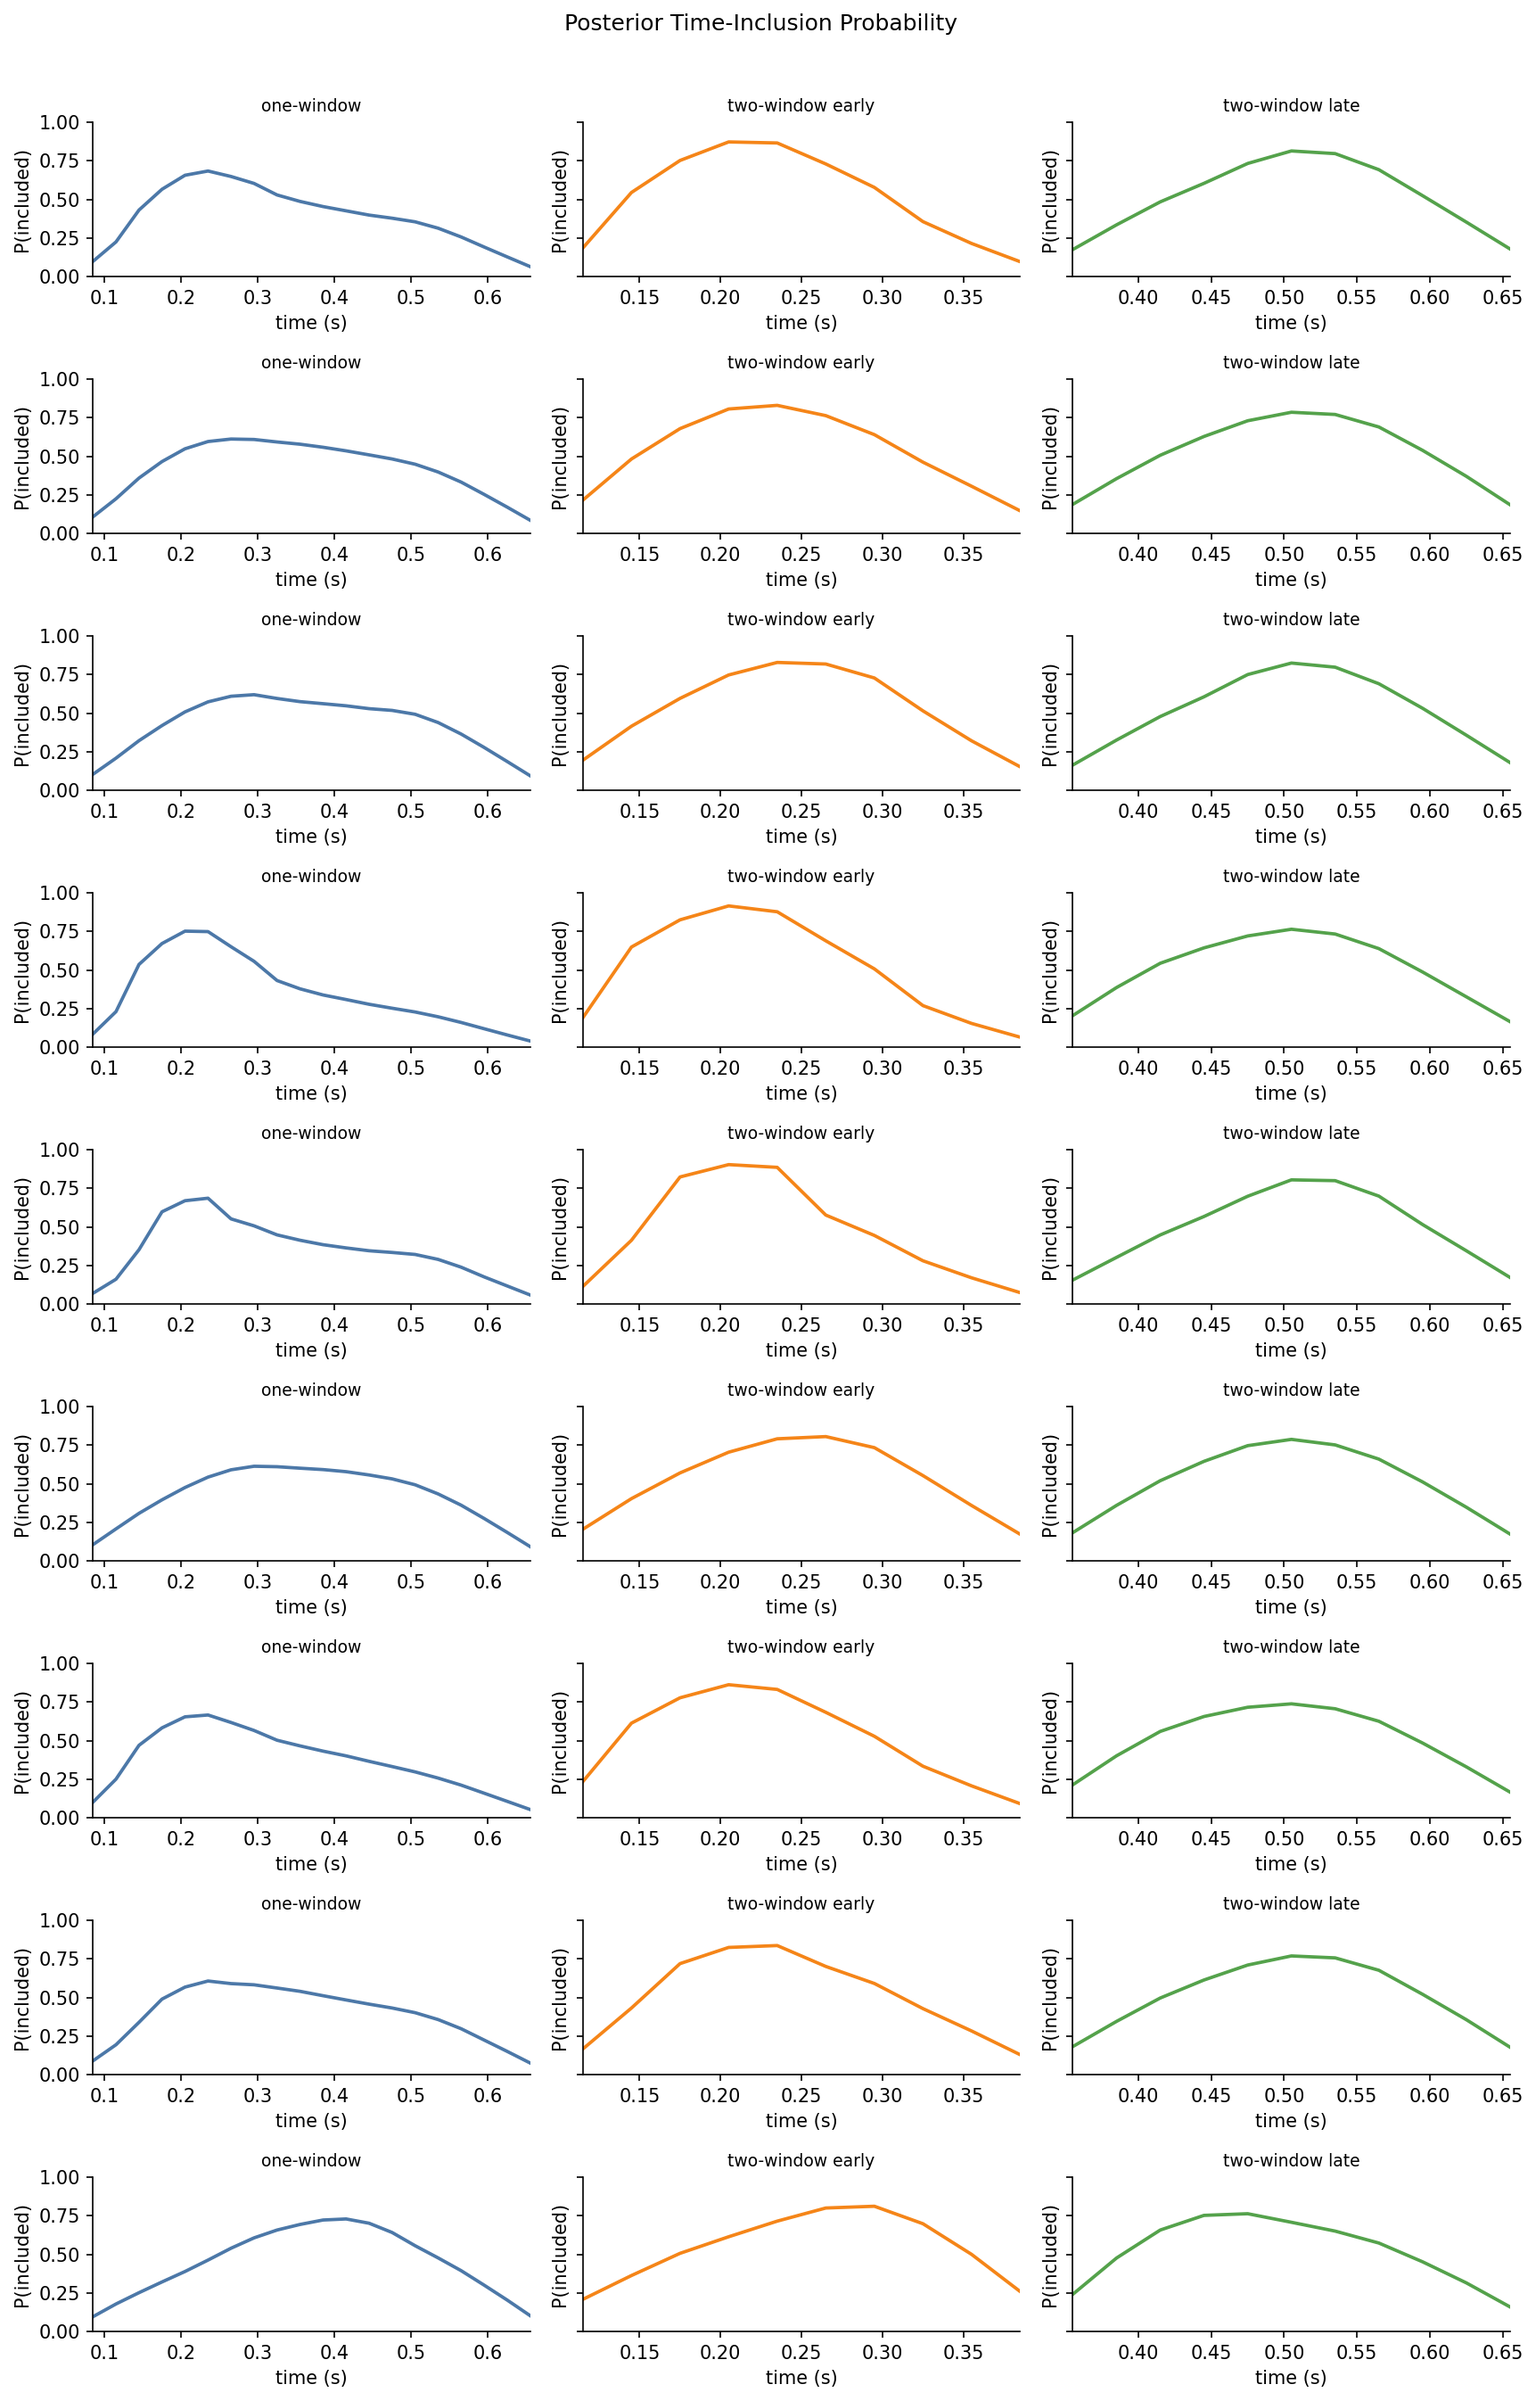
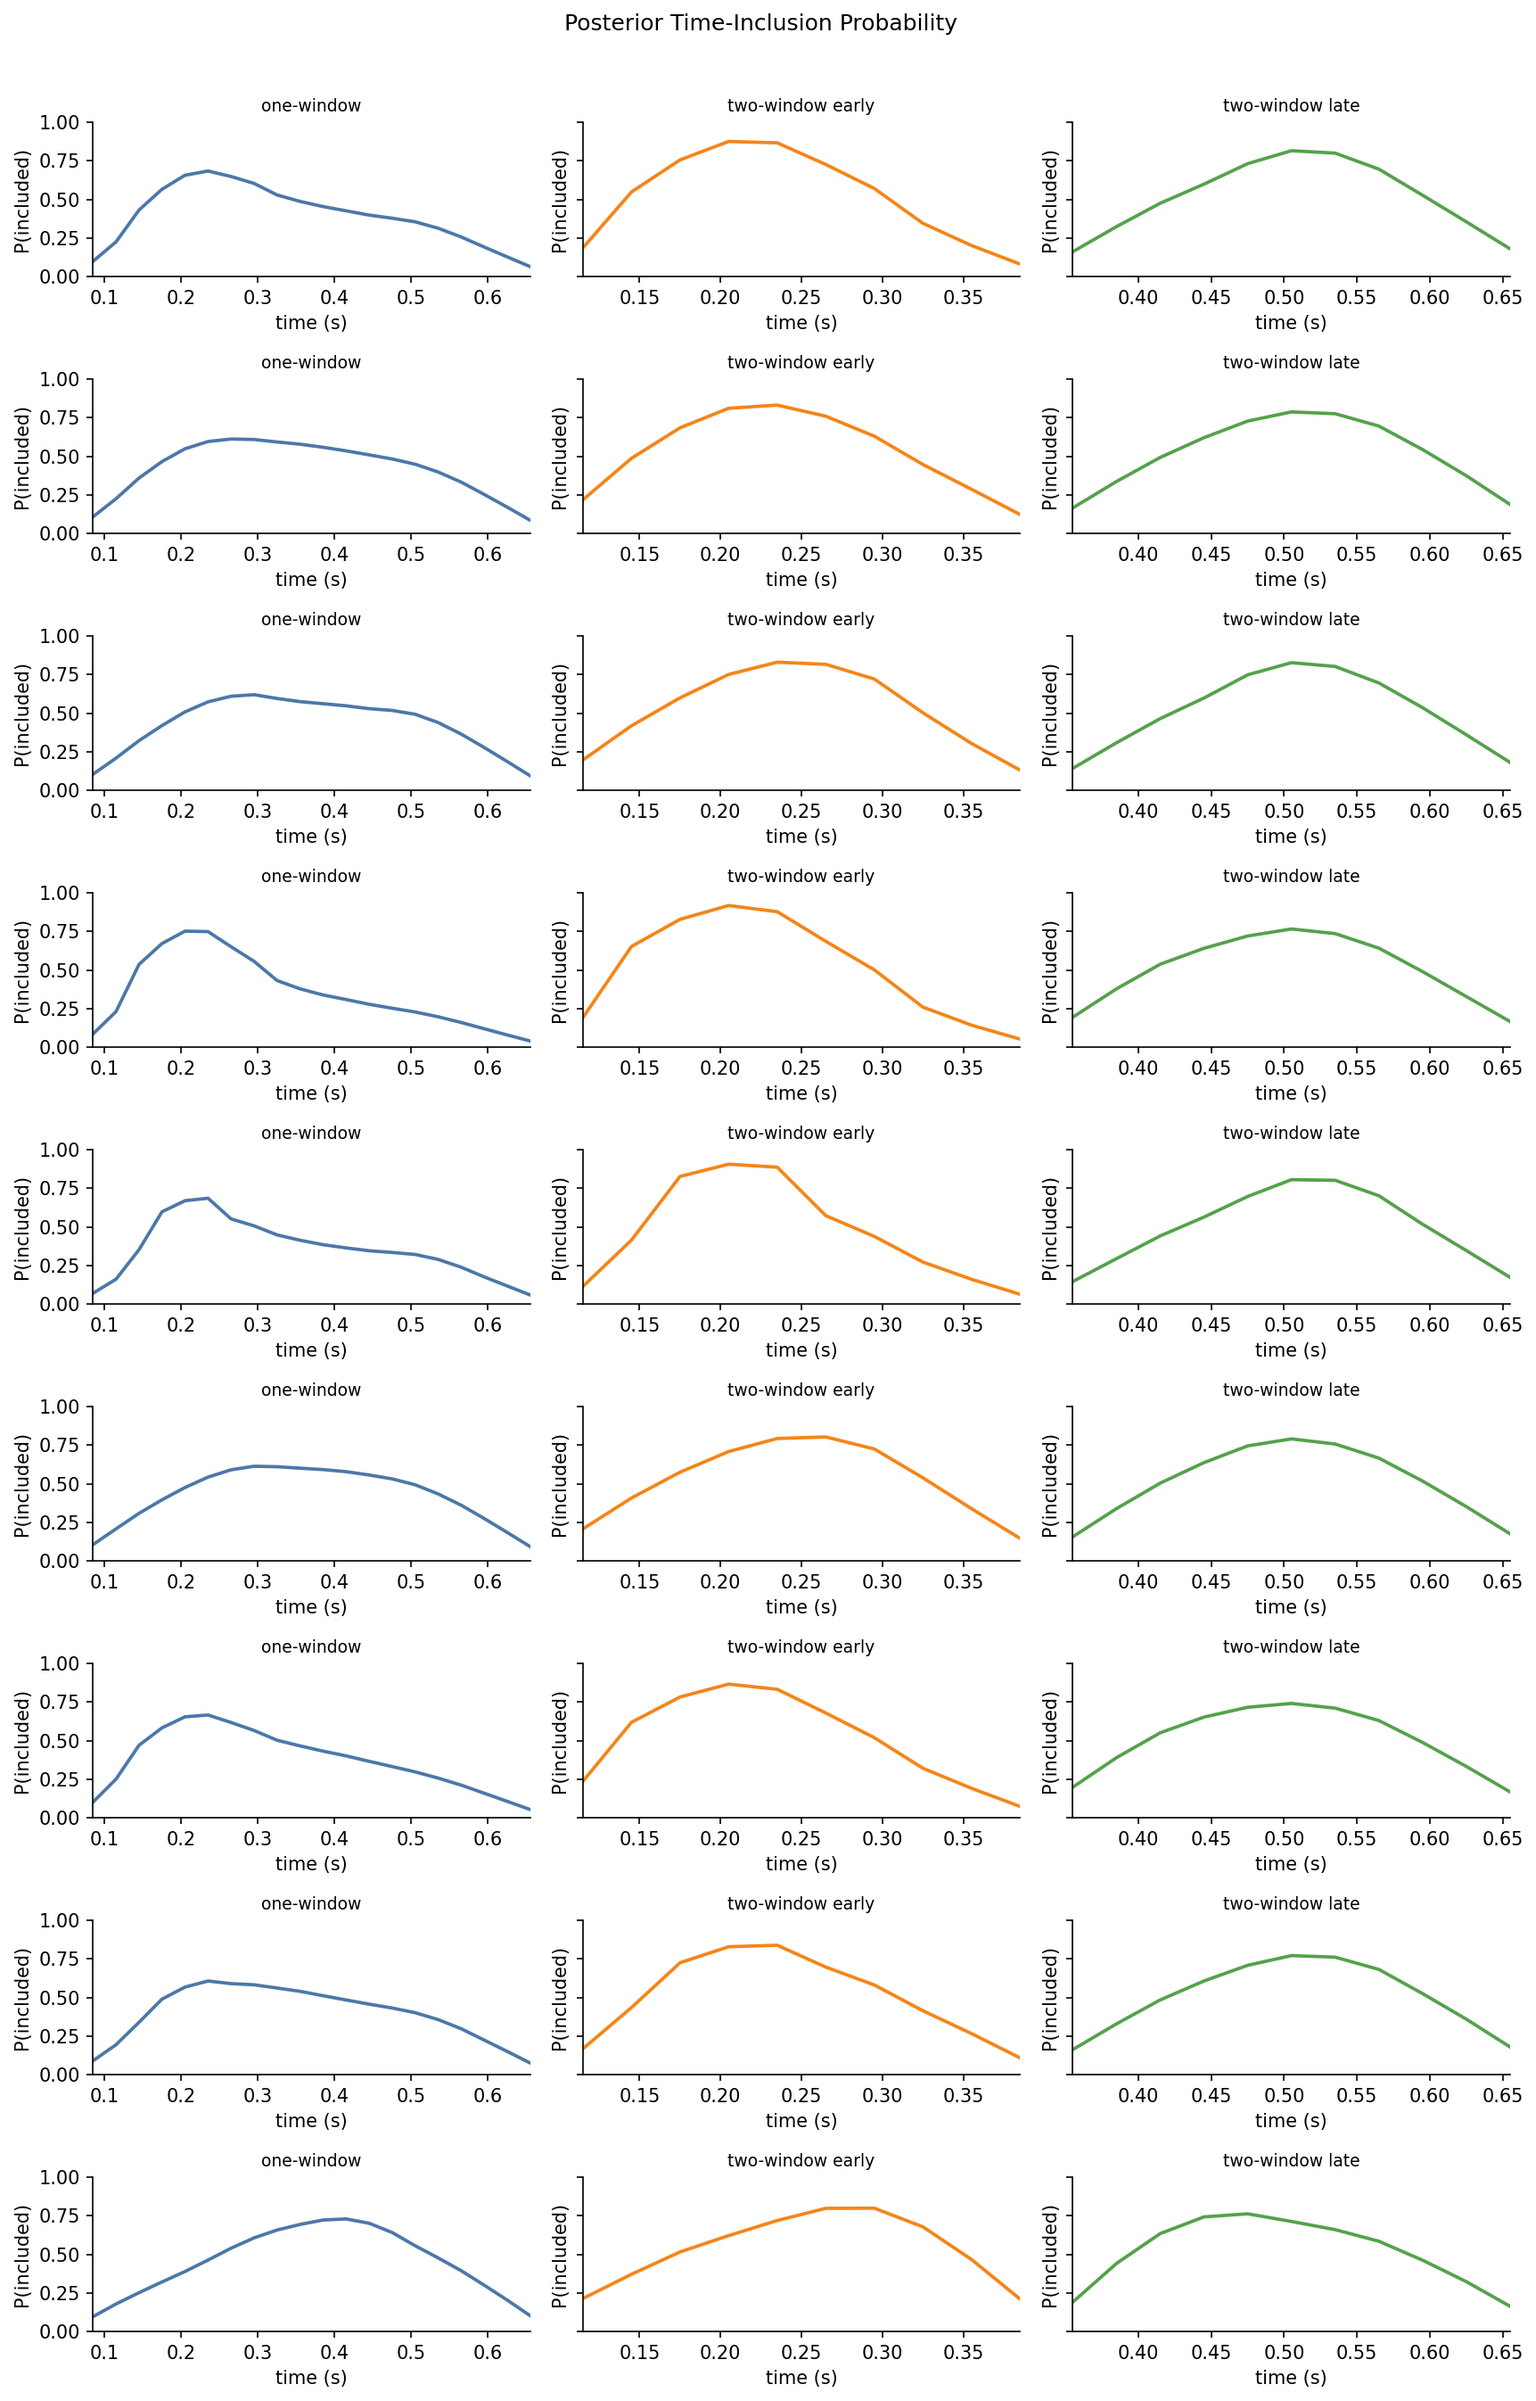
fig rev

Changed region(s): [[0.7075, 0.9361, 0.7382, 0.9673], [0.5844, 0.9049, 0.6152, 0.9361]]

diff --git a/code/connect_sensorwide_model_posterior_shape_analysis.py b/code/connect_sensorwide_model_posterior_shape_analysis.py
@@ -20,6 +20,7 @@ from connect_sensorwide_analysis import OUTPUT_DIR
 ACTIVE_PCT = float(os.environ.get("ACTIVE_PCT", "0.20"))
 TAU_EFFECT = float(os.environ.get("TAU_EFFECT", "0.15"))
 MIN_WIDTH_SEC = float(os.environ.get("MIN_WIDTH_SEC", "0.05"))
+MIN_GAP_SEC = float(os.environ.get("MIN_GAP_SEC", "0.00"))
 SHAPE_GRID_STEP_SEC = float(os.environ.get("SHAPE_GRID_STEP_SEC", "0.025"))
 ONE_LB = (0.08, 0.58)
 ONE_UB_MAX = 0.68
@@ -265,6 +266,12 @@ def best_interval_score(rows):
     return best
 
 
+def intervals_nonoverlap(first, second, first_prefix, second_prefix):
+    first_ub = float(first[f"ub_{first_prefix}"])
+    second_lb = float(second[f"lb_{second_prefix}"])
+    return second_lb >= first_ub + MIN_GAP_SEC
+
+
 def two_window_results(Y, times):
     rows = []
     early_intervals = candidate_intervals(times, EARLY_LB, EARLY_UB_MAX)
@@ -273,6 +280,8 @@ def two_window_results(Y, times):
     late_rows = interval_score_rows(Y, times, late_intervals, "late")
     for early in early_rows:
         for late in late_rows:
+            if not intervals_nonoverlap(early, late, "early", "late"):
+                continue
             row = {
                 "shape_model": "two_window",
                 "lb_one": np.nan,
@@ -293,6 +302,8 @@ def two_window_results(Y, times):
                 "effect_late_p_gt0": late["effect_p_gt0"],
             }
             rows.append(row)
+    if len(rows) == 0:
+        raise ValueError("No non-overlapping two-window candidates")
     return rows
 
 
@@ -304,17 +315,36 @@ def three_window_result(Y, times):
     middle_rows = interval_score_rows(Y, times, middle_intervals, "middle")
     late_rows = interval_score_rows(Y, times, late_intervals, "late")
     best_early = best_interval_score(early_rows)
-    best_middle = best_interval_score(middle_rows)
-    best_late = best_interval_score(late_rows)
-    early_log_vals = []
-    middle_log_vals = []
-    late_log_vals = []
-    for row in early_rows:
-        early_log_vals.append(float(row["log_bf"]))
-    for row in middle_rows:
-        middle_log_vals.append(float(row["log_bf"]))
-    for row in late_rows:
-        late_log_vals.append(float(row["log_bf"]))
+    candidate_rows = []
+    log_vals = []
+    best_row = None
+    for early in early_rows:
+        for middle in middle_rows:
+            if not intervals_nonoverlap(early, middle, "early", "middle"):
+                continue
+            for late in late_rows:
+                if not intervals_nonoverlap(middle, late, "middle", "late"):
+                    continue
+                log_bf = (
+                    float(early["log_bf"])
+                    + float(middle["log_bf"])
+                    + float(late["log_bf"])
+                )
+                row = {
+                    "early": early,
+                    "middle": middle,
+                    "late": late,
+                    "log_bf": log_bf,
+                }
+                candidate_rows.append(row)
+                log_vals.append(log_bf)
+                if best_row is None or log_bf > float(best_row["log_bf"]):
+                    best_row = row
+    if len(candidate_rows) == 0 or best_row is None:
+        raise ValueError("No non-overlapping three-window candidates")
+    best_early = best_row["early"]
+    best_middle = best_row["middle"]
+    best_late = best_row["late"]
     return {
         "shape_model": "three_window",
         "lb_one": np.nan,
@@ -325,9 +355,7 @@ def three_window_result(Y, times):
         "ub_middle": best_middle["ub_middle"],
         "lb_late": best_late["lb_late"],
         "ub_late": best_late["ub_late"],
-        "log_bf": logmeanexp(early_log_vals)
-        + logmeanexp(middle_log_vals)
-        + logmeanexp(late_log_vals),
+        "log_bf": logmeanexp(log_vals),
         "effect_mean": np.nan,
         "effect_sd": np.nan,
         "effect_p_gt0": np.nan,
@@ -337,7 +365,29 @@ def three_window_result(Y, times):
         "effect_middle_p_gt0": best_middle["effect_p_gt0"],
         "effect_late_mean": best_late["effect_mean"],
         "effect_late_p_gt0": best_late["effect_p_gt0"],
+        "n_three_window_candidates": int(len(candidate_rows)),
     }
+
+
+def count_nonoverlap_pairs(rows_a, rows_b, prefix_a, prefix_b):
+    count = 0
+    for row_a in rows_a:
+        for row_b in rows_b:
+            if intervals_nonoverlap(row_a, row_b, prefix_a, prefix_b):
+                count += 1
+    return count
+
+
+def count_nonoverlap_triples(rows_a, rows_b, rows_c):
+    count = 0
+    for row_a in rows_a:
+        for row_b in rows_b:
+            if not intervals_nonoverlap(row_a, row_b, "early", "middle"):
+                continue
+            for row_c in rows_c:
+                if intervals_nonoverlap(row_b, row_c, "middle", "late"):
+                    count += 1
+    return count
 
 
 def add_model_posterior(rows):
@@ -436,11 +486,29 @@ def run_connect_sensorwide_model_posterior_shape(
         )
         times, Y, subjects = subject_time_matrix(d, contrast)
         one_count = len(candidate_intervals(times, ONE_LB, ONE_UB_MAX))
-        early_count = len(candidate_intervals(times, EARLY_LB, EARLY_UB_MAX))
-        middle_count = len(candidate_intervals(times, MIDDLE_LB, MIDDLE_UB_MAX))
-        late_count = len(candidate_intervals(times, LATE_LB, LATE_UB_MAX))
-        two_count = early_count * late_count
-        three_count = early_count * middle_count * late_count
+        early_rows = interval_score_rows(
+            Y,
+            times,
+            candidate_intervals(times, EARLY_LB, EARLY_UB_MAX),
+            "early",
+        )
+        middle_rows = interval_score_rows(
+            Y,
+            times,
+            candidate_intervals(times, MIDDLE_LB, MIDDLE_UB_MAX),
+            "middle",
+        )
+        late_rows = interval_score_rows(
+            Y,
+            times,
+            candidate_intervals(times, LATE_LB, LATE_UB_MAX),
+            "late",
+        )
+        early_count = len(early_rows)
+        middle_count = len(middle_rows)
+        late_count = len(late_rows)
+        two_count = count_nonoverlap_pairs(early_rows, late_rows, "early", "late")
+        three_count = count_nonoverlap_triples(early_rows, middle_rows, late_rows)
         print(
             "[connect posterior shape] "
             f"subjects={len(subjects)}, times={len(times)}, "
